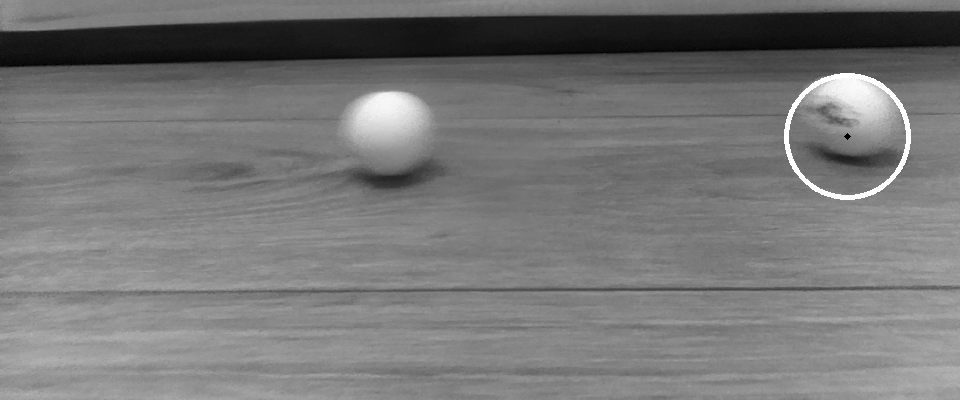
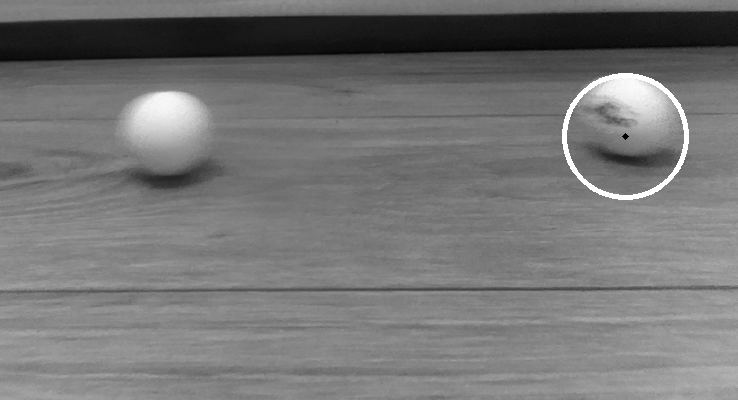
Update README

diff --git a/README.md b/README.md
@@ -1,16 +1,95 @@
-# Introduction
-This is the software for the Raspberry Pi controlling the table tennis ball fetcher robot called
-ASH.
+# ASH — Autonomous Table Tennis Ball Fetcher
 
-It's basically divided into these categories:
-- Computer vision;
-- Peripherals data reading;
-- Peripherals actuation;
+Controller software for **ASH**, a robot that searches a room for table tennis balls, collects them
+and returns to its charging base on its own. Raspberry Pi 5 · Python · OpenCV · multithreading.
+University team project (UTFPR, 2024).
 
-# Used libraries
-- OpenCV
-- adafruit-circuitpython-ads1x15
-- adafruit-circuitpython-icm20x
+<p align="center">
+  <img src="images/blurryBall.png" alt="Ball detection" height="180" align="middle">
+  &nbsp;<b>➡</b>&nbsp;
+  <img src="images/ash-demo.gif" alt="ASH collecting a ball" height="200" align="middle">
+</p>
+
+## What it does
+
+1. Starts a cleaning routine **on demand or on a schedule**, commanded from an Android app over Bluetooth.
+2. **Searches for balls** with the camera (Hough circle detection) and estimates distance with
+   **stereo depth** (OpenCV StereoSGBM).
+3. **Drives to the ball** with differential drive and encoder feedback, and collects it with a vacuum motor.
+4. **Avoids walls and obstacles** with four ultrasonic sensors and **detects when it is stuck**
+   (encoder progress vs. motor PWM).
+5. **Returns to the base** by tracking an infrared beacon and docks to charge.
+6. Reports its state to the app as JSON throughout the routine.
+
+## Architecture
+
+```mermaid
+flowchart LR
+  APP[Android app] <-- Bluetooth RFCOMM / JSON --> BT[BluetoothTask]
+  BT --> MAIN[main loop]
+  MAIN --> SCH[TaskScheduler<br/>now / at HH:MM]
+  SCH --> CTRL[ControlTask<br/>state machine]
+  CTRL --- T1[ball detector thread<br/>camera + OpenCV]
+  CTRL --- T2[odometry thread<br/>encoders + IMU]
+  CTRL --- T3[stuck detection thread]
+  CTRL --- T4[bluetooth handler thread]
+  CTRL --> PER[Peripherals<br/>motors, servo, sensors]
+```
+
+The control loop is a **state machine with ~20 states**, among them `SEARCHING_BALLS`,
+`CATCHING_BALL`, `AVOIDING_WALL`, `AVOIDING_STATIC_OBJECT`, `ROBOT_STUCK`, `BALL_STUCK`,
+`GOING_AFTER_BASE_CAM`, `CONNECTING_TO_BASE` and `CHARGING`. Sensing runs in separate threads and
+feeds the state machine through shared state and queues, so camera latency never blocks motor control.
+
+| Path | Content |
+|---|---|
+| `src/main.py` | Entry point: Bluetooth listener, scheduler, status relay to the app |
+| `src/controlTask.py` | State machine, vision and odometry threads |
+| `src/auxClasses/` | Peripherals abstraction, encoders, IR sensors, stuck detector, BT message parsing |
+| `detector/` | Standalone ball detection and calibration scripts |
+| `simulator/` | Navigation algorithms tested in a 2D simulator before running on the robot |
+| `tester/` | Hardware bring-up tests: GPIO, motors, IMU, ADC, ultrasonic sensors |
+
+## Hardware
+
+Raspberry Pi 5 with a Pi camera, two DC motors with quadrature encoders, servo, vacuum motor,
+4× ultrasonic sensors, 2× infrared sensors, hall-effect sensor, ADS1115 ADC and ICM-20x IMU on I²C,
+on a custom PCB. <!-- TODO(verificar): lista de hardware e se a PCB foi sua -->
+
+<details>
+<summary>GPIO map</summary>
+
+| Function | GPIO (pin) |
+|---|---|
+| Right motor IN1 / IN2 | 20 (38) / 21 (40) |
+| Right encoder A / B | 16 (36) / 25 (22) |
+| Left motor IN1 / IN2 | 19 (35) / 26 (37) |
+| Left encoder A / B | 6 (31) / 5 (29) |
+| Servo PWM | 24 (18) |
+| I²C SDA / SCL | 2 (3) / 3 (5) |
+| Hall-effect sensor | 23 (16) |
+| Infrared front / back | 14 (8) / 15 (10) |
+| Ultrasonic trigger (shared) | 17 (11) |
+| Ultrasonic echo 1–4 | 27 (13), 22 (15), 10 (19), 9 (21) |
+
+</details>
+
+## Running
+
+```bash
+pip install opencv-python picamera2 gpiozero schedule pybluez adafruit-circuitpython-ads1x15 adafruit-circuitpython-icm20x
+python src/main.py
+```
+<!-- TODO(verificar): comando real de execução no Pi (serviço systemd?) -->
+
+## Team
+
+Built by a team of three at UTFPR:
+- **João Vitor Caversan**
+- **Guilherme Gomes Barboza**
+- **Matheus Diniz de Freitas**
+
+---
 
 # GPIO configuration:
 Here is the GPIO configuration for Raspberry Pi boards:
@@ -51,3 +130,7 @@ GPIO11 (Pin 23) \
 GPIO12 (Pin 33 - PWM0) \
 GPIO13 (Pin 33 - PWM1) \
 GPIO18 (Pin 12)
+
+---
+
+© 2024 the ASH team. All rights reserved.
